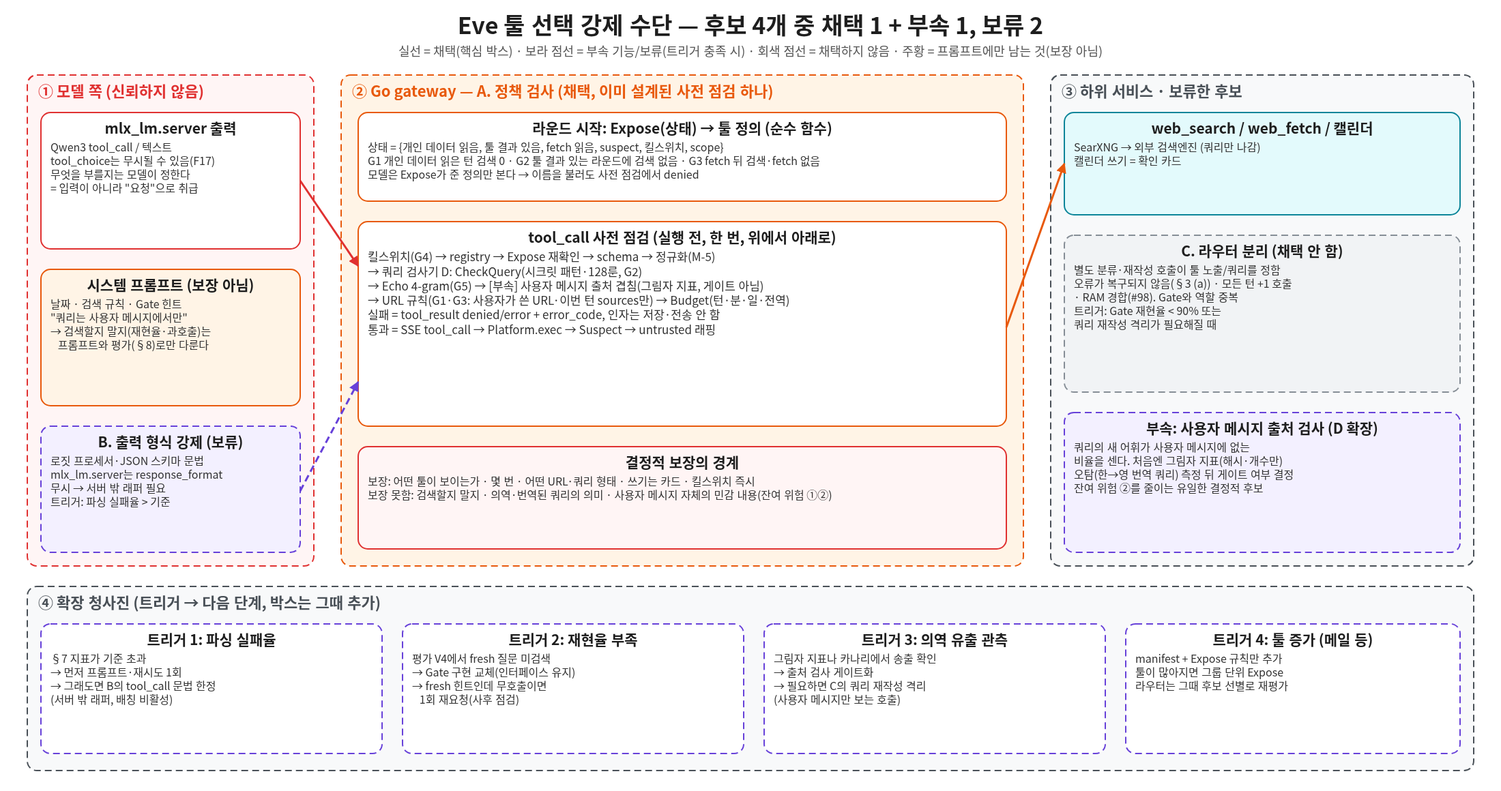
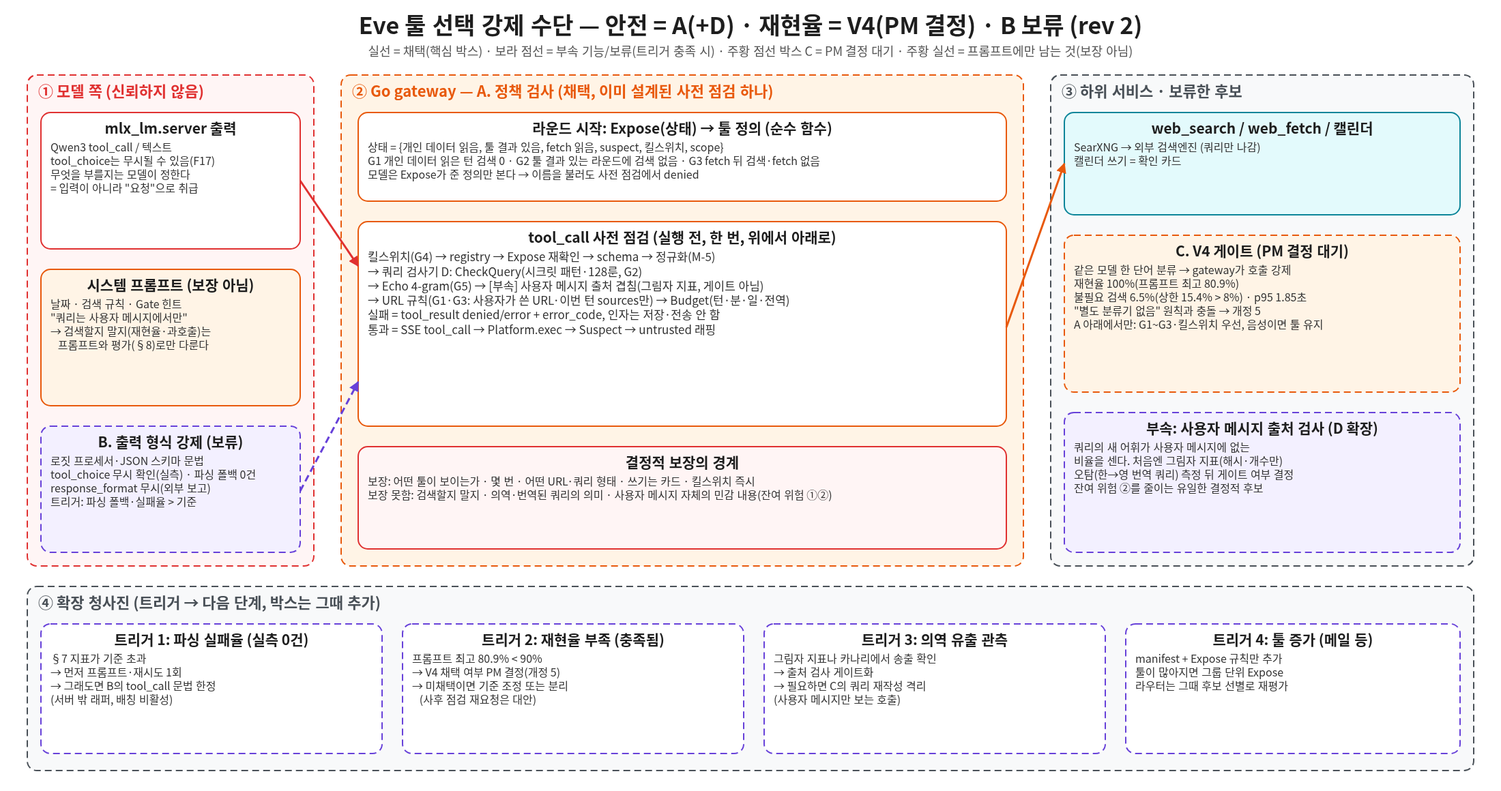
docs: tool-selection enforcement rev 2 — ground in model-engineer measurements (#139)
Rewrite C (router) around V4 (same-model one-word gate + gateway-forced call):
recall 100% vs prompt-only best 80.9%, unnecessary searches 6.5% (CI upper
15.4%, above the 8% bar), p95 1.85s request latency. Record that mlx_lm
ignores tool_choice (F17 resolved), keep safety enforcement on A, leave V4
adoption to PM, and state the conflict with the "no separate classifier"
principle of auto-tool-selection rev 4. Update mapping, risks, blueprint,
open items and diagram.

diff --git a/docs/architecture/tool-selection-enforcement.md b/docs/architecture/tool-selection-enforcement.md
@@ -4,25 +4,39 @@
 
 > 원본: [`diagrams/tool-selection-enforcement.excalidraw`](diagrams/tool-selection-enforcement.excalidraw) · [SVG](diagrams/tool-selection-enforcement.svg) · [PNG](diagrams/tool-selection-enforcement.png)
 
-상태: **검토 메모** (구현 없음, 결정 요청 아님) · 작성: 시스템 아키텍트.
+상태: **검토 메모 rev 2** (구현 없음) · 작성: 시스템 아키텍트. rev 2는 모델 엔지니어의 실측(이슈 #139, 평가 v1)을 근거로 넣고 C(라우터)의 평가와 추천을 다시 썼다. **V4 게이트 채택 여부는 PM 결정이며 이 메모는 결정하지 않는다.**
 기준 문서: `auto-tool-selection.md` **개정 4**(브랜치 `docs/auto-tool-selection`, 헤드 `708e5fc`; PR #134, 대체 PR #151). 그 문서는 아직 main에 없으므로 아래 `§` 참조는 그 개정 4의 절 번호이고, 병합 전에는 링크가 열리지 않는다. 관련: [tool-platform.md](tool-platform.md), [searxng-web-search.md](searxng-web-search.md), [model-serving.md](model-serving.md), [gateway.md](gateway.md).
 
 ## 0. 요약
 
 질문: 툴 선택 절차가 지금은 시스템 프롬프트로만 지켜진다. 프롬프트 밖에서 **시스템이** 강제할 수단이 무엇이고, 어느 것을 쓸 가치가 있는가.
 
-| 후보 | 결정론적으로 보장하는 것 | 추천 |
+| 후보 | 결정론적으로 보장하는 것 | 추천 (rev 2) |
 |---|---|---|
-| A. 게이트웨이 정책 검사 | 모델이 **볼 수 있는 툴**, 호출 **횟수·시간**, 인자의 **형태·출처 규칙**, 킬스위치 | **채택(핵심, 유일한 필수 박스).** 개정 4가 이미 담고 있다 |
-| B. 출력 형식 강제 | 툴콜 JSON이 문법에 맞는 **모양**으로 나온다 | **보류.** 안전 보장이 새로 늘지 않는다. 파싱 실패율이 기준을 넘으면 그때 |
-| C. 라우터 분리 | (별도 호출이 정한 노출·쿼리. 보장은 라우터 규칙 수준) | **채택하지 않음.** 현재 설계(별도 분류기 없음) 유지. 트리거 조건만 남긴다 |
+| A. 게이트웨이 정책 검사 | 모델이 **볼 수 있는 툴**, 호출 **횟수·시간**, 인자의 **형태·출처 규칙**, 킬스위치 | **채택(안전 강제의 유일한 필수 박스).** 개정 4가 이미 담고 있다 |
+| B. 출력 형식 강제 | 툴콜 JSON이 문법에 맞는 **모양**으로 나온다 | **보류.** 안전 보장이 새로 늘지 않는다. 실측 파싱 폴백 0건이라 트리거에서 더 멀어졌다 |
+| C. 라우터 분리 | **호출 강제**를 gateway가 직접 실행(V4: 같은 모델의 한 단어 분류 + gateway 강제). 판정은 모델이라 확률적 | **재현율 강제 후보. 채택은 PM 결정.** 안전 강제는 하지 않는다. 지연·불필요 검색·원칙 충돌이 리스크(§2.3) |
 | D. 검색어 검사기 | 쿼리의 **길이·시크릿 패턴·축어 겹침**(+ 사용자 메시지 출처 겹침 측정) | **A의 사전 점검 안의 함수로 채택.** 출처 겹침은 **그림자 지표로만** 먼저 |
 
-핵심 추천 3줄:
+### 0.1 이번에 바뀐 근거 (모델 엔지니어 실측, 이슈 #139)
 
-1. **박스를 더하지 않는다.** 강제는 gateway의 사전 점검 한 군데(A)에서 한다. Expose를 상태→툴 정의의 순수 함수로, 사전 점검을 고정 순서 파이프라인으로 두고 표 기반 결정적 테스트(개정 4 §6.9)로 못 박는다.
-2. **B·C는 지금 만들지 않고 트리거만 둔다.** B는 gateway가 어차피 모든 툴콜을 검증하므로 안전 이득이 없고 서버 밖 래퍼·성능 부담만 생긴다. C는 오류가 복구되지 않고 Gate와 역할이 겹친다.
-3. **D에 "쿼리 새 어휘 중 사용자 메시지에 없는 비율"을 그림자 지표로 추가**해 잔여 위험 ②(우회 인젝션의 의역 유출)를 줄일 유일한 결정적 후보를 먼저 측정한다. 게이트로 올릴지는 오탐 측정 후 정한다.
+요약만 적는다. 전문과 한계는 평가 결과 문서(`RESULTS.md`)에 있고, 표본이 작아(양성 68·음성 62, 변형당 1회 실행, 변형 간 5%p 안쪽은 노이즈) **방향을 정하는 근거이지 합격 판정이 아니다.**
+
+| 사실 | 수치 | 이 메모에서의 의미 |
+|---|---|---|
+| 프롬프트만 쓴 변형의 재현율 | 최고 **80.9%**(V1 + thinking on, 95% 구간 70.0–88.5). thinking off 최고는 V3 73.5%. 기준(≥90%)에 못 미친다 | 프롬프트로는 P4(호출 여부)를 약속할 수 없다. 어느 프롬프트 전용 변형도 90%에 닿지 못했다 |
+| V4: 같은 모델을 한 단어로 답하는 분류 게이트로 쓰고 gateway가 툴을 강제 | 재현율 **100%**(94.7–100), 불필요 검색 **6.5%**(구간 2.5–**15.4**) | 재현율은 충족. 불필요 검색은 점추정 6.5%가 기준(≤8%) 안이지만 **구간 상한 15.4%라 n=62로는 입증하지 못한다** |
+| V4 지연 | 요청 전체 **중앙값 1.30초, p95 1.85초**(thinking off 요청별 kwargs, 워밍된 캐시, 짧은 프롬프트). 분류 호출 단독 추가분은 평균 0.39초(중앙값 0.36, p95 0.48) | 아래 §2.3의 지연 표기 주의 참조 |
+| `mlx_lm`의 `tool_choice` | `auto`·`none`·`required`·지정을 각 5회 시도해 **양방향으로 무시**(양성 5/5 검색, 음성 0/5 검색) | **F17 "미검증" 해소.** 호출 강제·금지는 gateway가 도구 목록을 빼거나 직접 호출해서 해야 한다 |
+| 요청별 thinking 끄기 | `chat_template_kwargs.enable_thinking=false`가 동작. 중앙 지연 8.4초 → 1.53초 | 결정 라운드의 지연 예산이 성립하는 전제 |
+| 툴콜 파싱 | 모든 호출이 네이티브 `tool_calls`. 텍스트 `<tool_call>` 폴백 0건, 파싱 불가 인자 0건 | B(출력 형식 강제)의 트리거(파싱 실패율)가 현재 근거로는 걸리지 않는다 |
+| V4 한계 | **측정만 했고 gateway에 통합한 end-to-end 측정은 아니다.** 오분류 음성 4건: injection 1, time_word_trap 1, url_given 1, conversation_memory 1 | 통합 전에는 지연·캐시·큐 영향을 모른다 |
+
+### 0.2 핵심 추천 3줄 (rev 2)
+
+1. **안전 강제는 여전히 A(gateway 사전 점검)가 맡는다.** 박스를 더하지 않고 Expose를 순수 함수로 둔 채 G1~G5를 표 기반 테스트로 못 박는다. D는 A 안의 함수이고, 출처 겹침은 그림자 지표로 먼저 잰다. B는 보류한다.
+2. **재현율 강제는 V4 게이트가 현재 유일한 후보다.** 프롬프트만으로는 최고 80.9%(기준 90%)다. V4는 재현율 100%이고 별도 모델이 없다. 단 **채택은 PM이 결정한다**: 요청 p95 1.85초, 불필요 검색 6.5%(구간 상한 15.4%라 ≤8% 미충족), 개정 4의 "별도 분류기 없음" 원칙과 충돌, 불필요 검색이 곧 불필요한 외부 송출이다.
+3. **채택하더라도 V4는 A 아래에 둔다.** 양성일 때만 호출을 강제하고(음성이면 툴은 그대로 노출해 모델이 결정, 오류 복구 가능), G1~G3·킬스위치·Budget이 V4보다 우선한다. 이 구조의 반영은 개정 4 문서의 개정 5(원칙 수정)에서 한다.
 
 ## 1. "강제"가 뜻하는 것
 
@@ -33,7 +47,7 @@
 | P1 | **무엇이 노출되는가**(어떤 툴 정의를 모델에게 주는가) | 가능. 모델에게 안 보여 주고, 불러도 실행하지 않는다 | main은 모드·`web.enabled`로 노출. 개정 4는 Expose(G1~G3 포함) |
 | P2 | **얼마나 부르는가**(횟수·시간·전역 예산) | 가능 | main: 라운드 3·호출 5·분당 한도(F5). 개정 4: 일일·전역 예산 추가 |
 | P3 | **인자가 어떤 모양·출처인가**(길이, 시크릿 패턴, 에코, URL 출처) | 형태·축어 겹침은 가능. **의미(의역·번역)는 불가** | main: 256자 + `CheckQuery` 시크릿 패턴. 개정 4: 128룬, 4-gram 에코, URL 규칙 |
-| P4 | **부를지 말지**(재현율·과호출) | **불가.** 결정은 모델의 몫이다. 시스템은 측정과 힌트만 할 수 있다 | 날짜·규칙 프롬프트, Gate 힌트, 평가 §8 |
+| P4 | **부를지 말지**(재현율·과호출) | 프롬프트로는 **불가**(실측 최고 80.9%). gateway가 호출을 **직접 실행**하는 것은 결정적으로 가능하지만(`tool_choice`는 서버가 무시하므로 gateway가 해야 한다), "필요하다"는 판정 자체는 모델이라 확률적이다(V4, §2.3) | 날짜·규칙 프롬프트, Gate 힌트, 평가 §8. V4는 후보 |
 
 main(`b72651d`)의 `webChat`은 라운드마다 `tools`를 gateway가 만들어 보내고(`defs`), 모델이 낸 `tool_calls`는 gateway가 실행한다. 즉 P1~P3의 **집행 지점은 이미 gateway에 있다.** 프롬프트에만 기대는 부분은 (a) G2의 "쿼리는 사용자 메시지에서만"이라는 문구, (b) P4 전체다. 개정 4는 (a)를 라운드별 Expose와 사전 점검으로 옮겼다. 이 메모는 그 설계가 충분한지, 그리고 gateway 밖·모델 쪽에서 더할 만한 수단이 있는지를 따진다.
 
@@ -60,28 +74,47 @@ main(`b72651d`)의 `webChat`은 라운드마다 `tools`를 gateway가 만들어 
 | 갈래 | 내용 | 현재 사실 |
 |---|---|---|
 | B1. 로짓 프로세서 문법 | `mlx_lm`의 로짓 프로세서 훅(토큰별로 허용되지 않는 토큰의 로짓을 `-inf`)에 JSON 스키마·문법 매처(Outlines, xgrammar, llguidance 등)를 붙인다 | 훅은 있으나 서버에 문법 프로세서는 없다. 서버 밖 래퍼가 필요하고, **배칭 경로에서 제약이 첫 요청 뒤 조용히 사라진다는 보고**가 있다(mlx-lm 이슈 #1007 논의, 2026-09) |
-| B2. `response_format`/JSON 스키마 | OpenAI 호환 필드로 스키마를 요청에 싣는다 | `mlx_lm.server`는 이 필드를 **조용히 무시**하는 것으로 보고돼 있다(같은 이슈, 2026-07). 우리 배포 버전에서 재확인이 필요하다. `tool_choice`도 무시될 수 있다(F17) |
-| B3. Qwen3 네이티브 툴콜 | 채팅 템플릿의 `<tool_call>{"name","arguments"}</tool_call>` 형식과 서버·gateway의 파서 | **이미 쓰고 있다**(F3). 형식 위반은 gateway의 텍스트 폴백 파서가 받고 개정 4 §7이 **파싱 폴백 비율**을 센다(최종 파싱 실패 건수는 같은 지표에 더하자는 제안) |
+| B2. `response_format`/JSON 스키마 | OpenAI 호환 필드로 스키마를 요청에 싣는다 | `mlx_lm.server`는 이 필드를 **조용히 무시**하는 것으로 보고돼 있다(같은 이슈, 2026-07). 우리 배포 버전에서 재확인이 필요하다. `tool_choice`는 모델 엔지니어의 실측으로 **양방향 무시가 확인됐다**(§0.1, F17 해소) |
+| B3. Qwen3 네이티브 툴콜 | 채팅 템플릿의 `<tool_call>{"name","arguments"}</tool_call>` 형식과 서버·gateway의 파서 | **이미 쓰고 있다**(F3). 형식 위반은 gateway의 텍스트 폴백 파서가 받고 개정 4 §7이 **파싱 폴백 비율**을 센다(최종 파싱 실패 건수는 같은 지표에 더하자는 제안). **평가 v1에서는 폴백 0건·파싱 불가 인자 0건**이었다 |
 
 | 항목 | 내용 |
 |---|---|
 | 결정론적 보장 | B1을 쓰면 툴콜이 문법에 맞게 닫히는 것(유효 JSON, 툴 이름이 노출 목록 enum, 인자 필드와 `maxLength`)을 디코딩 단계에서 보장할 수 있다. B2는 현재 서버가 무시하므로 보장 없음. B3은 "파싱 가능한 형태가 나오도록 유도"일 뿐 보장은 없다 |
-| 한계 | ① **안전 보장이 새로 늘지 않는다.** gateway는 어차피 이름·스키마·길이를 검증하고 거부해야 하므로, B가 없어도 위반은 막힌다. B가 줄이는 것은 "형식 불량 → 재시도·파싱 실패"의 빈도뿐이다. ② 쿼리의 **내용**은 못 정한다(의역 유출 그대로). ③ **호출할지 말지**를 강제하면 재현율에 해롭다(툴콜 접두를 강제하면 모든 턴이 호출이 된다). 자유 텍스트와 툴콜의 합집합 문법이 필요해 설계가 어렵다. ④ Qwen3는 사고 텍스트와 툴콜이 섞여 나올 수 있어 문법이 복잡해진다 |
+| 한계 | ① **안전 보장이 새로 늘지 않는다.** gateway는 어차피 이름·스키마·길이를 검증하고 거부해야 하므로, B가 없어도 위반은 막힌다. B가 줄이는 것은 "형식 불량 → 재시도·파싱 실패"의 빈도뿐이다. ② 쿼리의 **내용**은 못 정한다(의역 유출 그대로). ③ **호출을 강제**하려면 툴콜 접두 문법이 필요한데 모든 턴이 호출이 되어 재현율이 아니라 정밀도를 깬다. 호출 강제는 문법이 아니라 gateway의 직접 호출(§2.3 V4)이 더 단순하다. 자유 텍스트와 툴콜의 합집합 문법이 필요해 설계가 어렵다. ④ Qwen3는 사고 텍스트와 툴콜이 섞여 나올 수 있어 문법이 복잡해진다 |
 | 지연·비용 | **미측정.** 토큰마다 어휘 전체(Qwen3는 약 15만) 마스크를 계산하므로 디코딩 속도가 떨어질 수 있다. 문법 컴파일 비용은 스키마별 캐시로 줄일 수 있다. 배칭을 끄면 동시 요청 처리량이 줄어든다. 모델 엔지니어가 `:8080` 생성 속도 영향을 실측해야 한다(#98 측정 항목과 같은 방식) |
 | 복잡도 | 높음. 서버 밖 래퍼를 host의 모델 서빙 프로세스에 심어야 한다 = **새 공급망 의존성**(핀·서명·보안 검토 필요), `mlx_lm` 업그레이드마다 호환 점검, 한국어 멀티바이트 토큰 경계 정합성. 서빙 프로세스는 gateway와 별개로 배포·재시작돼 롤백 단위가 늘어난다 |
-| 추천 | **보류.** 트리거 = 개정 4 §7의 **툴콜 파싱 폴백·실패 비율**이 평가에서 정한 기준을 넘고, 프롬프트 보강과 gateway 1회 재시도로도 못 내려갈 때. 그때도 범위는 "툴콜 구간의 문법 한정(이름 enum + 인자 스키마)"로 최소화한다. 도입 전에 먼저 할 일은 지금의 파싱 실패율을 **재는 것**이다 |
+| 추천 | **보류.** 트리거 = 개정 4 §7의 **툴콜 파싱 폴백·실패 비율**이 평가에서 정한 기준을 넘고, 프롬프트 보강과 gateway 1회 재시도로도 못 내려갈 때. 현재 실측은 폴백 0건이라 **트리거에서 멀다.** 그때도 범위는 "툴콜 구간의 문법 한정(이름 enum + 인자 스키마)"로 최소화한다. 도입 전에 먼저 할 일은 지금의 파싱 실패율을 **재는 것**이다 |
 
-### 2.3 C. 라우터 분리
+### 2.3 C. 라우터 분리 (평가 v1 근거로 재작성)
 
-모델과 별도의 호출(작은 모델 또는 같은 모델의 짧은 호출)이 "검색/캘린더/없음"을 정하거나 쿼리를 쓴다. 현재 설계는 이를 선택하지 않았다(개정 4 §3 (a)·(c)). 이 메모는 그 판단을 재확인하고 트리거를 남긴다.
+모델과 별도의 호출이 "검색 필요 여부"를 정한다. rev 1은 이를 가정 위에서 "채택 안 함"으로 평가했다. 평가 v1이 **V4**를 측정했으므로 실제 후보로 다시 쓴다.
+
+**V4가 무엇인가.** 별도 모델이 없다. 같은 모델(Qwen3-30B-A3B-4bit)에 질문을 보여 주고 "검색 필요: 예/아니오"를 **한 단어로** 답하게 한 뒤, gateway가 그 판정에 따라 **툴을 직접 강제**한다(`tool_choice`는 서버가 무시하므로 gateway가 `web_search`를 직접 호출하거나 노출을 정한다). 따라서 V4는 **별도 모델이 없는, gateway 강제형 라우터**다. 이것이 rev 1의 "라우터 = 새 모델·RAM 추가" 가정과 다른 점이다: RAM은 늘지 않고, 늘어나는 것은 호출 한 번이다.
 
 | 항목 | 내용 |
 |---|---|
-| 결정론적 보장 | 라우터가 규칙 기반이면 규칙 수준의 결정성(= 지금의 Gate 어휘 사전과 같다). 모델 기반이면 **결정론이 아니다.** 유일한 구조적 이점은 격리다: 라우터가 **사용자 메시지만** 보고 툴 결과·개인 데이터를 보지 않으면, 인젝션이 라우터의 쿼리에 닿지 않는다(G2의 더 강한 형태, "격리된 호출"). 단 G1의 상태(개인 데이터를 읽었는가)는 어차피 gateway가 알아야 하므로 A 없이는 성립하지 않는다 |
-| 한계 | 개정 4 §3이 정리한 대로 **오류가 복구되지 않는다**: 라우터가 "검색 불필요"로 틀리면 모델은 툴을 보지도 못한다. Gate를 양성 힌트로만 쓰는 이유다. 라우터를 힌트로만 쓰면 Gate와 역할이 겹친다. 쿼리 재작성 호출은 사용자 메시지 속 민감 내용을 여전히 의역해 내보낸다(잔여 위험 ①은 그대로) |
-| 지연·비용 | 검색이 필요 없는 턴까지 모든 턴에 호출 +1. 같은 모델이면 `queue` 세마포어를 한 번 더 점유해 TTFT가 늘고, 별도 모델이면 RAM이 추가돼 #98의 임베딩·리랭커와 경합한다(§3). **미측정**(모델 엔지니어) |
-| 복잡도 | 중간~높음. 새 호출 경로, 라벨·평가 세트(V4), 분류기 버전 관리, 실패 시 폴백 정책. "박스 하나하나가 필요한가"에 가장 약하다 |
-| 추천 | **채택하지 않음.** 트리거 = ① 평가 V4에서 Gate 재현율이 출시 기준(90%)에 못 미치고 어휘 사전 확장으로도 못 올릴 때(→ Gate 구현만 교체, 인터페이스 유지), ② 관측·카나리에서 의역 유출이 확인돼 쿼리 작성을 사용자 메시지만 보는 호출로 격리해야 할 때(→ 개정 4 §9의 "쿼리 재작성 단계 삽입 지점"), ③ 툴이 늘어 정의 주입이 비대해질 때(→ 후보 선별). 어느 경우든 **A 뒤에 끼우는 교체 가능한 단계**로 넣고 A를 대체하지 않는다 |
+| 결정론적 보장 | **강제의 실행**은 결정적이다: 판정이 "예"면 gateway가 항상 호출한다(모델이 무시할 수 없다). 하지만 **판정은 모델 출력이라 확률적**이다(재현율 100%는 양성 68개에서의 측정이며 구간은 94.7–100). 또 호출이 안전 규칙을 우회하면 안 되므로 V4의 호출도 A의 사전 점검(Expose·G1~G3·Echo·Budget·킬스위치)을 그대로 거친다 |
+| 효과(실측) | 재현율 100%(프롬프트 전용 최고 80.9%, 기준 ≥90%). 불필요 검색 6.5%(프롬프트 변형은 0–3.2%). 홀드아웃(양성 17·음성 17)에서는 재현율 100%, 불필요 검색 5.9%(1/17). 오분류 음성 4건: injection·time_word_trap·url_given·conversation_memory 각 1 |
+| 한계 | ① **불필요 검색의 신뢰구간 상한이 15.4%**로 기준(≤8%)을 입증하지 못한다(n=62). ② V4는 **측정만** 했고 gateway 통합 end-to-end는 없다. ③ 분류 대상은 현재 웹 검색뿐이다(캘린더 항목 없음, 평가 그룹 D 미구성). ④ 변형당 1회 실행, 양성 68개라 합격 판정이 아니라 방향이다. ⑤ **불필요 검색 = 불필요한 외부 송출**: 사용자 메시지가 외부 검색엔진으로 나가는 비율이 늘어난다(잔여 위험 ①의 빈도 증가, 아래 리스크). ⑥ 오분류에 `injection`과 `conversation_memory`가 있어, 판정이 잘못되면 민감한 대화에서도 검색이 강제될 수 있다. 그래서 V4는 G1(개인 데이터 읽은 턴 검색 0)·G2보다 **아래**여야 한다 |
+| 지연·비용 | **표기 주의**: 평가 문서가 말하는 수치는 두 가지다. ⓐ 분류 호출 단독 추가분: 평균 **0.39초**(중앙값 0.36, p95 0.48). ⓑ thinking off에서 호출 결정까지 **요청 전체** 중앙값 **1.30초, p95 1.85초**(워밍 캐시, 짧은 프롬프트). 이 메모는 지연 리스크를 **p95 1.85초(요청 전체 기준)**로 적고 분류 단독분은 별도로 적는다. 개정 4 §4.6의 결정 라운드 p95 ≤3초 안이다. **측정 안 된 것**: 큐 세마포어 대기(동시 요청 시 한 호출 추가), 분류 호출이 본 호출 prefill 캐시에 주는 영향(시스템 프롬프트가 길어 캐시가 깨지면 콜드 prefill은 훨씬 느리다. 도구 2→20개 +5.3초), thinking on 구성에서의 지연(중앙값 5.5초) |
+| 복잡도 | 중간. 새 모델·서비스·RAM은 없다. 새 호출 경로 하나, 분류 프롬프트·버전 관리, 평가 세트 유지, 실패 시 폴백(분류 실패 = 강제 안 함), 새 관측 지표. **개정 4의 "별도 분류기 없음" 원칙과 충돌**(아래) |
+| 추천 | **재현율 강제 후보. 채택은 PM 결정**(아래 리스크를 받아들일지). 안전 강제는 하지 않는다 — 안전은 A의 몫이다. 채택하지 않을 경우 프롬프트만으로는 90%를 약속할 수 없으므로 **재현율 기준을 낮추거나(평가 §8.3 판정 방식 변경) 출시 게이트에서 분리**해야 한다 |
+
+**개정 4와의 충돌 (명시).** 개정 4 §8.2는 V4를 "gateway 분류기, 같은 모델로 한 단어, 비교용" 변형으로만 정의했고 채택하지 않았다. 이 메모가 다루는 것은 그 비교용 변형을 **운영 설계에 넣을지**다. `auto-tool-selection.md` 개정 4 §0·§3은 **"별도 분류기는 만들지 않는다"**를 현재 설계 원칙으로 둔다(근거: 분류기 오류가 복구되지 않는다, 박스 증가, 호출 +1). V4는 같은 모델이라도 **모든 턴에 분류 호출을 한 번 더 하는 분류기**이며 Gate의 계약(`Hint → {none, fresh}`, 양성 **힌트**만, 개정 4 §4.3 Gate)도 "힌트"에서 **"강제"**로 넓힌다. 따라서 V4를 채택하면 개정 4의 원칙·Gate 정의·§3 비교표·§4.3.3 예산(호출 수 계산)을 **개정 5로 고쳐야** 하고, 이 메모는 그 개정을 하지 않는다. rev 1이 말한 "오류가 복구되지 않는다"는 약점은 V4를 **양성일 때만 강제하고, 음성이면 툴을 계속 노출해 모델이 결정하게** 하면 사라진다(분류기 오류가 재현율을 지금보다 낮추지 못한다). 이 구조는 이 메모의 제안이며 평가 v1이 측정한 구성은 아니다.
+
+**리스크 (PM이 채택 판단에 쓸 목록).**
+
+| # | 리스크 | 크기 | 완화 |
+|---|---|---|---|
+| R1 | 요청 지연 추가: **p95 1.85초**(요청 전체, thinking off 가정). 분류 호출 단독분 평균 0.39초 | 결정 라운드 p95 ≤3초 안. 큐·캐시 영향은 미측정 | end-to-end 재측정 후 판단. thinking on 구성은 불가(중앙값 5.5초) |
+| R2 | 불필요 검색 6.5%, **구간 상한 15.4%로 ≤8% 미충족**(입증 불가) | 점추정은 기준 안, 상한은 밖. 홀드아웃 5.9% | 표본 확대(음성 확충)와 반복 실행 후 재판정. 기준 완화는 PM·모델 엔지니어 결정 |
+| R3 | 불필요 검색이 **외부 송출 증가**로 이어진다(잔여 위험 ① 빈도 증가). 건영이 수용한 잔여 위험은 "모델이 자동 검색을 고르는" 구성이었다 | 송출 비율이 프롬프트 변형(0–3.2%)에서 V4(6.5%, 상한 15.4%)로 오른다 | 보안 담당이 수용 범위가 V4를 포함하는지 확인. 필요하면 건영에게 다시 확인 |
+| R4 | 개정 4 원칙(별도 분류기 없음)·Gate 정의 충돌 | 문서·설계 변경(개정 5) 필요 | PM 결정 후 개정 5 |
+| R5 | V4 오분류 음성(injection, conversation_memory) 시 민감한 대화에서 검색 강제 | 4/62 중 2건이 해당 범주 | G1·G2·Echo가 V4보다 우선. V4는 쿼리를 쓰지 않는다 |
+| R6 | 검색 쿼리의 출처. V4가 호출을 강제할 때 쿼리를 누가 쓰는가(모델이 쓰면 호출 +1, 사용자 메시지를 그대로 쓰면 옛 `force` 경로와 같은 외부 송출) | 설계 미정 | G2("현재 사용자 메시지만")를 지키는 쪽으로 정하고 보안 담당이 확인 |
+| R7 | 통합 end-to-end 미측정, 표본·실행 횟수 한계 | 측정은 방향 근거 | 모델 엔지니어가 통합 측정(평가 문서 "남은 일") |
+
+**트리거와의 관계.** rev 1이 둔 트리거 "Gate 재현율 < 90%"는 평가 v1에서 **이미 충족됐다**(프롬프트 전용 최고 80.9%). 그러므로 남은 질문은 "필요한가"가 아니라 "V4의 비용(R1~R7)을 받아들일 것인가"이고, 이는 PM이 정한다. 한편 rev 1이 말한 두 번째 용도(쿼리 작성을 사용자 메시지만 보는 호출로 **격리**하는 것)는 V4와 별개이고 트리거(관측된 의역 유출)도 아직 걸리지 않았다.
 
 ### 2.4 D. 검색어 검사기
 
@@ -103,17 +136,17 @@ main(`b72651d`)의 `webChat`은 라운드마다 `tools`를 gateway가 만들어 
 
 ## 3. 비교 한눈에
 
-| | A 정책 검사 | B 출력 형식 강제 | C 라우터 분리 | D 검색어 검사기 |
+| | A 정책 검사 | B 출력 형식 강제 | C 라우터 (V4: gateway 강제형) | D 검색어 검사기 |
 |---|---|---|---|---|
-| P1 노출 | ● | ○(이름 enum 이중화) | ◐(노출을 정하는 대안) | – |
-| P2 횟수·시간 | ● | – | – | ◐(길이·중복) |
-| P3 인자 형태·출처 | ● | ◐(형식·길이) | ◐(쿼리 격리 시) | ● |
-| P4 호출 여부 | – (힌트·측정만) | ✕(강제하면 재현율 훼손) | ◐(Gate 대체, 복구 불가 위험) | – |
-| 새 모델·RAM | 없음 | 없음(서빙 프로세스 변경) | 있음 또는 호출 +1 | 없음 |
-| 지연 영향 | 무시 가능(추정) | 미측정, 디코딩 오버헤드 | 모든 턴 +1 호출(미측정) | 무시 가능(추정) |
-| 새 박스 | 0 (이미 설계됨) | 서빙 래퍼 1 | 라우터 1 | 0 (A 안의 함수) |
-| 안전 이득 | 필수 | 없음(gateway가 재검증) | 격리 시 소량 | 소량(그림자 → 측정) |
-| 추천 | **채택** | 보류 | 채택 안 함 | **채택(+ 그림자)** |
+| P1 노출 | ● | ○(이름 enum 이중화) | – (V4는 노출을 줄이지 않는다) | – |
+| P2 횟수·시간 | ● | – | – (호출 +1은 예산에 산입 필요) | ◐(길이·중복) |
+| P3 인자 형태·출처 | ● | ◐(형식·길이) | ◐(쿼리 격리 시. V4 자체는 쿼리 규칙을 바꾸지 않는다) | ● |
+| P4 호출 여부 | – (힌트·측정만) | ✕(접두 강제는 정밀도를 깬다) | ●(실행은 결정적, 판정은 확률적. 실측 재현율 100%) | – |
+| 새 모델·RAM | 없음 | 없음(서빙 프로세스 변경) | **없음**(같은 모델), 호출 +1 | 없음 |
+| 지연 영향 | 무시 가능(추정) | 미측정, 디코딩 오버헤드 | **요청 p95 1.85초**(분류 단독 평균 0.39초). 큐·캐시 영향 미측정 | 무시 가능(추정) |
+| 새 박스 | 0 (이미 설계됨) | 서빙 래퍼 1 | 분류 호출 경로 1(원칙 충돌) | 0 (A 안의 함수) |
+| 안전 이득 | 필수 | 없음(gateway가 재검증) | **없음**(오히려 외부 송출 증가 리스크) | 소량(그림자 → 측정) |
+| 추천 | **채택** | 보류 | **재현율 강제 후보, PM 결정** | **채택(+ 그림자)** |
 
 범례: ● 결정적 보장의 본체 · ◐ 부분적·조건부 · ○ 보조·이중화 · – 해당 없음 · ✕ 해로움.
 
@@ -125,15 +158,15 @@ main(`b72651d`)의 `webChat`은 라운드마다 `tools`를 gateway가 만들어 
 |---|---|---|---|---|---|
 | **Expose** | 상태·scope·킬스위치로 툴 정의 결정 | ● 본체(순수 함수화 제안) | ○ 툴 이름 enum을 문법에 넣으면 이중화. 안전 이득 없음 | ◐ 노출 결정을 별도 호출로 옮기는 대안. 비권장 | – |
 | **Budget** | 턴·분·일일·전역 한도, 15초 | ● 본체 | – 문법은 호출 수를 못 센다 | – | ◐ 128룬, 중복 쿼리 |
-| **Gate** | 최신성 양성 힌트 | ○ 어휘 사전이 gateway 안에 있다 | – | ● **교체 후보**(소형 분류기, 트리거 ①). 음성 필터로는 쓰지 않는다 | – |
-| **G1** 개인 데이터를 읽은 턴은 검색 0, fetch는 사용자 URL만 | 상태 기반 노출·거부 | ● 본체(상태 추적 + Expose + URL 규칙) | – | – 상태는 gateway만 안다 | – |
-| **G2** 쿼리는 현재 사용자 메시지만, 128룬, 턴당 2회 | 라운드 1에서만 노출 | ● 노출 제한·횟수 | ◐ `query.maxLength`를 문법에 | ◐ 쿼리 작성을 사용자 메시지만 보는 호출로 격리(트리거 ②) | ● 길이·패턴 + **출처 겹침(그림자)** |
+| **Gate** | 최신성 양성 힌트 | ○ 어휘 사전이 gateway 안에 있다(실측: 양성 80.9% 반응, 음성 22.6% 반응이라 힌트로만 쓴다) | – | ● **교체·확장 후보 = V4.** 단 힌트가 아니라 **강제**이므로 Gate 계약 변경(개정 5). 음성이면 툴을 숨기지 않는다 | – |
+| **G1** 개인 데이터를 읽은 턴은 검색 0, fetch는 사용자 URL만 | 상태 기반 노출·거부 | ● 본체(상태 추적 + Expose + URL 규칙) | – | ✕→A가 우선. V4의 강제 호출도 G1에 걸리면 `denied`여야 한다(오분류 `conversation_memory` 대비) | – |
+| **G2** 쿼리는 현재 사용자 메시지만, 128룬, 턴당 2회 | 라운드 1에서만 노출 | ● 노출 제한·횟수 | ◐ `query.maxLength`를 문법에 | ◐ 쿼리 작성을 사용자 메시지만 보는 호출로 격리(트리거 ②). V4가 호출을 강제할 때 쿼리를 누가 쓰는지는 미정(R6) | ● 길이·패턴 + **출처 겹침(그림자)** |
 | **G3** fetch 연쇄 금지 | fetch 뒤 검색·fetch 노출 안 함, URL 허용 집합 | ● 본체 | – | – | ○ fetch URL 에코 규칙 |
 | **G4** "웹 검색함 + 쿼리" 표시, 킬스위치 즉시 | 사전 점검 첫 단계 킬스위치, 표시는 UI 계약 | ● 킬스위치 재확인(진행 중 요청 포함) | – | – | – |
 | **G5** 4-gram 에코 유지 | 축어·난독화 차단 | ◐ 사전 점검 순서 안에서 실행 | – | – | ● 본체(Echo는 검사기의 한 종류) |
 | (참고) Suspect | 주입 의심 결과 처리 | ● 본체 | – | – | – |
 
-읽는 법: 열 A는 **모든 행에서 본체이거나 실행 환경**이다. B·C는 어떤 게이트도 새로 보장하지 않고, 같은 게이트를 이중화하거나(B) 다른 구현으로 바꿀 수 있게(C) 한다. D는 G2·G5의 구현 방식이다. 즉 **G1~G5를 닫는 데 A·D 외에 필요한 후보가 없다.**
+읽는 법: 열 A는 **모든 행에서 본체이거나 실행 환경**이다. B는 어떤 게이트도 새로 보장하지 않고 같은 게이트를 이중화한다. D는 G2·G5의 구현 방식이다. 즉 **G1~G5(안전 게이트)를 닫는 데 A·D 외에 필요한 후보가 없다.** C(V4)는 G1~G5 어느 것도 보장하지 않고 **Gate 행(재현율)에만 기여**하며, G1·G2·G3 아래에서만 동작해야 한다.
 
 ## 5. 단순함 점검: 박스 하나하나가 필요한가
 
@@ -143,54 +176,65 @@ main(`b72651d`)의 `webChat`은 라운드마다 `tools`를 gateway가 만들어 
 | Expose를 순수 함수로 | 필수(이미 있는 단계의 형태 제안) | 테스트로 G1~G3을 표 기반으로 못 박는 수단. 코드 크기 증가 거의 없음 | 노출 규칙이 흩어져 검증이 어렵다 |
 | 쿼리 검사기(D) | A의 함수로 필수 | 쿼리가 외부로 나가는 유일한 지점이다. 별도 서비스는 불필요 | 에코·시크릿 패턴 보호가 없다 |
 | 출처 겹침 그림자 지표 | **조건부**(측정용) | 잔여 위험 ②를 줄일 결정적 후보가 이것뿐이라 값이 있는지부터 잰다. 코드는 함수 하나 | 승격 판단 근거가 없다 |
-| 출력 형식 강제(B) | **불필요(지금)** | gateway 재검증이 있으므로 안전 보장이 겹친다. 서빙 프로세스에 새 의존성·롤백 단위를 더한다 | 형식 불량이 파싱 실패로 보이고 gateway가 폴백 파서·1회 재시도로 처리(지금 설계) |
-| 라우터(C) | **불필요(지금)** | 모델이 이미 결정자이고, Gate가 양성 힌트를 낸다. 분류기 오류는 복구되지 않는다 | 평가가 재현율 부족을 보일 때만 Gate 구현을 교체 |
-| 별도 분류기 일반 | 현재 설계: **추가 안 함** | 개정 4 §3 결정 유지 | — |
+| 출력 형식 강제(B) | **불필요(지금)** | gateway 재검증이 있으므로 안전 보장이 겹친다. 실측 파싱 폴백 0건이라 줄일 문제도 없다 | 지금 설계(폴백 파서 + 재시도)로 충분 |
+| V4 게이트(C) | **조건부, PM 결정** | **재현율이라는 별개 문제**를 푸는 유일한 실측 후보(프롬프트 최고 80.9% vs 100%). 안전 문제를 푸는 박스가 아니다 | 재현율 기준(≥90%)을 못 맞춘다. 기준을 바꾸거나 출시 게이트에서 분리해야 한다 |
+| 별도 모델·임베딩 라우터 | **불필요** | 같은 모델 V4가 재현율을 충족했다. 별도 모델은 RAM 경합(#98)과 :8080 속도 저하(질의 부하 시 디코드 −70%)가 있다 | — |
 
-결론: **새 박스 0개, 새 함수 최대 1개**(출처 겹침 그림자). 현재 설계가 이미 필요 최소를 갖췄다.
+결론: **안전을 위한 박스는 A(+D) 하나로 충분하다.** 재현율을 위한 박스는 V4가 후보이고 **채택은 PM 결정**이다. 둘은 목적이 다르므로 섞지 않는다.
 
 ## 6. 프롬프트에만 남는 것과 다루는 법 (P4)
 
-"호출할지 말지"는 시스템이 강제할 수 없다. 대신 다음 순서로 다룬다. 어느 단계도 새 박스가 아니다.
+"호출할지 말지"는 프롬프트로 90%를 약속할 수 없다(실측 최고 80.9%). 다음 순서로 다룬다.
 
-1. **측정**: 자동 검색률, 불필요 검색 비율, 재현율을 평가 V4와 관측 지표로 본다(§7, §8). 기준 미달이 곧 아래 단계의 트리거다.
-2. **힌트 보강**: Gate 어휘 사전 확장, 프롬프트 문구 조정(모델 엔지니어).
-3. **사후 점검과 1회 재요청(청사진)**: Gate가 `fresh`인데 모델이 툴 없이 답한 경우, gateway가 한 번 "이 질문은 최신 정보가 필요하다. 검색 여부를 다시 판단하라"로 재요청한다. 결정적이지만 **스트리밍을 되돌릴 수 없다**: 툴이 있는 라운드는 비스트리밍(F7)이므로 가능하나, 라운드 스트리밍(`streamRound`) 도입(§4.6) 뒤에는 토큰이 이미 나간 뒤라 쓸 수 없다. 이 단계를 쓰려면 스트리밍 설계와 함께 정한다.
-4. **정직한 고지**: 검색이 실패하거나 하지 않은 최신성 질문에서는 `fresh:"unverified"`로 나가 UI가 알린다(개정 4 §13 Q3). 이것은 gateway가 규칙으로 정하므로 프롬프트에 의존하지 않는다.
+1. **측정**: 자동 검색률, 불필요 검색 비율, 재현율을 평가 변형과 관측 지표로 본다(§7, §8). 표본이 작으므로 판정 방식도 함께 고친다: 프롬프트 동결 후 3회 이상, 양성 60개 이상의 새 홀드아웃, 불필요 검색은 점추정과 구간 상한을 함께 보고(모델 엔지니어 제안).
+2. **힌트 보강**: Gate 어휘 사전·프롬프트 문구. 실측상 Gate 힌트의 효과는 구간이 겹쳐 구분되지 않는다(V1→V2). 이 단계만으로는 기준에 못 미친다.
+3. **gateway 강제(V4)**: 위 두 단계로 재현율을 못 올릴 때의 유일한 실측 후보. **PM이 채택 여부를 정한다**(§2.3 리스크). 채택하면 안전 규칙(A) 아래에서만 동작하고, 음성이면 툴을 숨기지 않는다.
+4. **사후 점검과 1회 재요청(청사진)**: Gate가 `fresh`인데 모델이 툴 없이 답한 경우 gateway가 한 번 재요청한다. V4보다 호출이 적게 늘지만 **스트리밍을 되돌릴 수 없다**: 툴이 있는 라운드는 비스트리밍(F7)이므로 가능하나 라운드 스트리밍(`streamRound`, §4.6) 도입 뒤에는 쓸 수 없다. V4를 채택하면 이 단계는 필요 없다.
+5. **정직한 고지**: 검색이 실패했거나 하지 않은 최신성 질문은 `fresh:"unverified"`로 나가 UI가 알린다(개정 4 §13 Q3). gateway 규칙이라 프롬프트에 의존하지 않는다. V4 채택 여부와 무관하게 필요하다.
 
 ## 7. 확장 청사진
 
 | 트리거(측정 가능) | 다음 단계 | 추가되는 것 | 되돌리기 |
 |---|---|---|---|
-| 툴콜 파싱 폴백·실패 비율 > 기준(§7 지표, 기준은 모델 엔지니어가 정함) | ① 프롬프트·툴 정의 조정 → ② gateway 1회 재시도 → ③ **B**: 툴콜 구간 문법(이름 enum + 인자 스키마), 서버 밖 래퍼, 배칭 비활성 | 서빙 래퍼(핀·서명·보안 검토), `mlx_lm` 호환 점검 | 래퍼를 빼면 B3 + gateway 폴백으로 복귀 |
-| 평가 V4 재현율 < 90%가 사전 확장·프롬프트로도 안 오름 | **C 일부**: Gate 구현을 교체(`Hint(ctx, text)` 인터페이스 유지). 음성 필터로는 쓰지 않는다 | 소형 분류기 또는 임베딩 라우터(RAM은 #98과 합산 검토) | 구현을 사전으로 되돌린다 |
+| 툴콜 파싱 폴백·실패 비율 > 기준(§7 지표, 기준은 모델 엔지니어가 정함). 현재 실측 0건 | ① 프롬프트·툴 정의 조정 → ② gateway 1회 재시도 → ③ **B**: 툴콜 구간 문법(이름 enum + 인자 스키마), 서버 밖 래퍼, 배칭 비활성 | 서빙 래퍼(핀·서명·보안 검토), `mlx_lm` 호환 점검 | 래퍼를 빼면 B3 + gateway 폴백으로 복귀 |
+| 재현율 < 90% (**프롬프트 전용 최고 80.9%로 충족됨**) | **C = V4**: 양성일 때 gateway가 호출 강제(PM 결정, 개정 5, 리스크 R1~R7). 더 올리려면 Gate 구현 교체(인터페이스 유지) | 분류 호출 경로 1, 지표, 평가 유지 | 분류 호출을 끄면 프롬프트 + Gate 힌트로 복귀(킬스위치로 끌 수 있게 설계) |
+| V4의 불필요 검색 상한이 기준 초과로 확인됨 | 판정 임계·프롬프트 조정, 분류기 규칙 보강. 안 되면 V4 철회 | — | V4 철회 |
 | 카나리·그림자 지표에서 의역 유출 징후 | **D 승격**: 출처 겹침을 게이트로(임계는 오탐 측정 후). 그래도 부족하면 **C 일부**: 쿼리 작성을 사용자 메시지만 보는 격리 호출로 | 거부 임계 설정, 또는 쿼리 재작성 호출 +1 | 게이트를 그림자로 낮춘다 |
-| 툴 종류 증가(메일 등) | manifest + Expose 규칙 추가, 그룹 단위 Expose, 후보 선별(임베딩) | 후보 선별 단계 | 그룹 규칙 제거 |
-| `mlx_lm.server`가 `response_format`·`tool_choice`를 지원 | B2를 서버 기능으로 사용(래퍼 불필요) | 서버 업그레이드 | 요청 필드 제거 |
-| 사후 점검 필요(P4, 위 3단계) | 비스트리밍 라운드에서 1회 재요청 | 라운드 1회 증가 케이스 | 단계 제거 |
+| 툴 종류 증가(메일 등) | manifest + Expose 규칙 추가, 그룹 단위 Expose, 후보 선별(임베딩). V4의 분류 라벨도 확장해야 한다 | 후보 선별 단계 | 그룹 규칙 제거 |
+| `mlx_lm.server`가 `response_format`·`tool_choice`를 지원(현재 `tool_choice`는 무시, 실측) | B2 서버 기능 사용, V4의 gateway 강제를 서버 `tool_choice`로 단순화 가능 | 서버 업그레이드 | 요청 필드 제거 |
+
+**V4를 채택할 경우의 구조 스케치** (구현 아님): 요청 → Expose가 허용한 툴이 있을 때만 분류 호출(질문만 보고 한 단어, 툴 결과·개인 데이터 없음) → "예"면 gateway가 `web_search`를 사전 점검을 거쳐 실행(쿼리 출처는 G2) → 결과를 넣고 답변 라운드, "아니오"면 지금 흐름(툴 노출, 모델이 결정). 분류 호출은 `all_off`·`auto_select_off`에 포함돼 같은 킬스위치로 꺼진다.
 
 ## 8. 구현 전에 확인할 것
 
-이 메모는 구현을 제안하지 않는다. 결정을 바꿀 수 있는 사실 몇 가지만 측정·확인 대상으로 남긴다.
+이 메모는 구현을 제안하지 않는다. 결정을 바꿀 수 있는 사실만 측정·확인 대상으로 남긴다. 완료된 항목은 근거를 적었다.
 
-| 확인 | 담당 | 결과가 바꾸는 것 |
-|---|---|---|
-| 배포 중인 `mlx_lm` 버전에서 `response_format`·`tool_choice`·`logits_processors`가 동작하는지(요청 한 번씩 보내 본다) | 모델 엔지니어 | B2의 실현 가능성, F17 해소 |
-| 현재 평가 세트에서 툴콜 **파싱 폴백 비율과 최종 파싱 실패율** | 모델 엔지니어, QA | B의 트리거 기준 |
-| (B를 한다면) `:8080` 생성 속도 저하, 배칭 비활성화의 동시 처리량 영향 | 모델 엔지니어 | B의 비용 판단 |
-| 정상 한국어 쿼리의 새 어휘 비율 분포, 인젝션 mock에서의 분리도 | QA, 백엔드 | D 승격 여부와 임계 |
-| 상태 추적(G1~G3)의 표 기반 결정적 테스트 통과(개정 4 §6.9) | 백엔드, 보안 | A의 보장 자체 |
+| 확인 | 상태 | 담당 | 결과가 바꾸는 것 |
+|---|---|---|---|
+| `mlx_lm`의 `tool_choice` 동작 | **완료**: 양방향 무시(각 5회, §0.1) | 모델 엔지니어 | F17 해소. 강제는 gateway |
+| 요청별 `enable_thinking=false` | **완료**: 동작(중앙 8.4초 → 1.53초) | 모델 엔지니어 | 결정 라운드 지연 예산 |
+| 툴콜 파싱 폴백·실패 비율 | **완료(평가 v1)**: 폴백 0건, 파싱 불가 인자 0건. 실제 트래픽에서는 재측정 | 모델 엔지니어, QA | B의 트리거 기준 |
+| `response_format`·`logits_processors` 동작 | 미확인(배포 버전 요청 한 번씩) | 모델 엔지니어 | B2의 실현 가능성 |
+| V4 end-to-end 통합 측정: 큐 세마포어 대기, 분류 호출이 본 호출 prefill 캐시에 주는 영향, 요청 p95 | 미측정 | 모델 엔지니어, 백엔드 | R1 확정, 채택 판단 |
+| V4 불필요 검색 재측정(음성 표본 확대, 반복 실행) | 미측정(현재 n=62, 구간 상한 15.4%) | 모델 엔지니어, QA | R2: ≤8% 판정 |
+| V4가 호출을 강제할 때 쿼리 출처(G2와의 정합) | 설계 미정 | 시스템 아키텍트, 보안 | R6 |
+| (B를 한다면) `:8080` 생성 속도 저하, 배칭 비활성화의 처리량 영향 | 미측정 | 모델 엔지니어 | B의 비용 판단 |
+| 정상 한국어 쿼리의 새 어휘 비율 분포, 인젝션 mock에서의 분리도 | 미측정 | QA, 백엔드 | D 승격 여부와 임계 |
+| 상태 추적(G1~G3)의 표 기반 결정적 테스트 통과(개정 4 §6.9) | 구현 전 | 백엔드, 보안 | A의 보장 자체 |
 
 ## 9. 열린 질문
 
-1. **출처 겹침 그림자 지표를 개정 4 구현 이슈 범위에 넣을지**(#137 등 어느 이슈에 둘지는 PM이 결정). 코드는 작지만 지표 정의·저장 규칙(원문 없음)이 필요하다. 보안 담당: 그림자 모드가 "개수·비율만" 남기는 방식이 §6.4 규칙에 맞는지 확인 요청.
-2. **사후 점검 재요청(§6 3단계)을 청사진에 둘지, 스트리밍 설계(§4.6)와 함께 정할지.** 지금은 청사진으로 두고 스트리밍 결정 때 같이 보자는 안이다.
-3. **B의 트리거 수치**(파싱 실패율 몇 %)는 모델 엔지니어가 평가 후 정한다. 이 메모는 숫자를 제안하지 않는다.
+1. **V4 게이트를 채택할 것인가 (PM 결정).** 필요한 입력은 §2.3 리스크 표다. 특히 R3(불필요 검색 = 외부 송출 증가)은 건영이 수용한 잔여 위험의 범위와 관련되므로 **보안 담당이 수용 범위가 V4를 포함하는지 판단**하고, 필요하면 PM이 건영에게 다시 확인한다. 채택 시 개정 4의 "별도 분류기 없음" 원칙과 Gate 정의를 고치는 **개정 5**가 필요하다(시스템 아키텍트). 채택하지 않으면 재현율 기준(≥90%)을 낮추거나 출시 게이트에서 분리해야 한다.
+2. **재현율 기준 판정 방식**: 평가 문서는 "프롬프트 동결 후 3회 이상, 양성 60개 이상 홀드아웃, 경계 성향 카테고리 분리 보고"를 제안한다. PM·모델 엔지니어가 받아들일지 정한다.
+3. **출처 겹침 그림자 지표를 개정 4 구현 이슈 범위에 넣을지**(어느 이슈에 둘지는 PM). 보안 담당: 그림자 모드가 "개수·비율만" 남기는 방식이 §6.4 규칙에 맞는지 확인 요청.
+4. **사후 점검 재요청(§6 4단계)**: V4를 채택하면 불필요하다. 채택하지 않으면 스트리밍 설계(§4.6)와 함께 정한다.
 
-SemVer: 이 문서 자체는 docs 변경이다(버전 영향 없음). 문서가 말하는 A·D 기존분은 개정 4의 MAJOR 출시 범위 안이다. 그림자 지표는 추가만 하는 관측이라 MINOR로 보되, **출처 겹침을 거부 게이트로 승격하는 것은 그 시점에 다시 판단한다**(확신이 없으면 MAJOR).
+SemVer: 이 문서 자체는 docs 변경이다(버전 영향 없음). 문서가 말하는 A·D 기존분은 개정 4의 MAJOR 출시 범위 안이다. 그림자 지표는 추가만 하는 관측이라 MINOR로 보되 **출처 겹침을 거부 게이트로 승격하는 것은 그 시점에 다시 판단한다**(확신이 없으면 MAJOR). **V4 채택은 모든 턴에 호출이 하나 늘고 외부 송출 빈도가 바뀌는 동작 변경이므로 개정 5에서 판단하며, 확신이 없으면 MAJOR로 본다**(이미 MAJOR 출시에 포함시킬지, 별도로 낼지는 PM).
 
 ## 부록: 근거
 
 - 개정 4: §3(분류기 선택지 비교), §4.3(정책 레이어), §4.3.1(에코), §4.3.4(G1~G5), §6.1·§6.9(결정적 테스트), §7(관측), §9(청사진), F3·F7·F17(현재 구조 사실).
 - main(`b72651d`): `internal/handlers/web.go`의 `webChat`(라운드마다 `tools` 구성, `tool_choice:"auto"`), `internal/tools/policy.go`의 `CheckQuery`·상한.
-- 외부: mlx-lm 이슈 #1007 "Allow structured generation through response_format in mlx_server"(2026-07 시작, 서버가 `response_format`을 무시한다는 보고와 서버 밖 Outlines 래퍼의 배칭 문제 보고 포함), mlx-lm v0.30.1 릴리스 노트(배치 생성의 `logits_processors` 지원, 서버 툴콜 파싱 개선). 이 외부 정보는 2차 출처이며 **우리 배포 버전에서 확인한 것이 아니다**(§8 첫 항목).
+- **모델 엔지니어 실측(이슈 #139, 평가 v1)**: Qwen3-30B-A3B-4bit(:8080), 항목 130개(web_search 기대 68, none 기대 62), 홀드아웃 34개, 변형당 1회 실행(temperature 0.7, top_p 0.9). 인용한 수치: 변형별 재현율·불필요 검색(§1 표), V4 지연(§2 4번), `tool_choice` 프로브(§3.1), thinking 끄기(§3.3), 파싱(§1). 한계: 표본이 작고 V4는 gateway 통합 end-to-end가 아니다. 전문은 평가 결과 문서(`RESULTS.md`, 이슈 #139 노트)에 있다.
+- 외부: mlx-lm 이슈 #1007 "Allow structured generation through response_format in mlx_server"(2026-07 시작, 서버가 `response_format`을 무시한다는 보고와 서버 밖 Outlines 래퍼의 배칭 문제 보고 포함), mlx-lm v0.30.1 릴리스 노트(배치 생성의 `logits_processors` 지원, 서버 툴콜 파싱 개선). 이 외부 정보는 2차 출처이며 **우리 배포 버전에서 확인한 것이 아니다**(§8 `response_format`·`logits_processors` 행). `tool_choice`는 위 실측으로 확인됐다.
+
